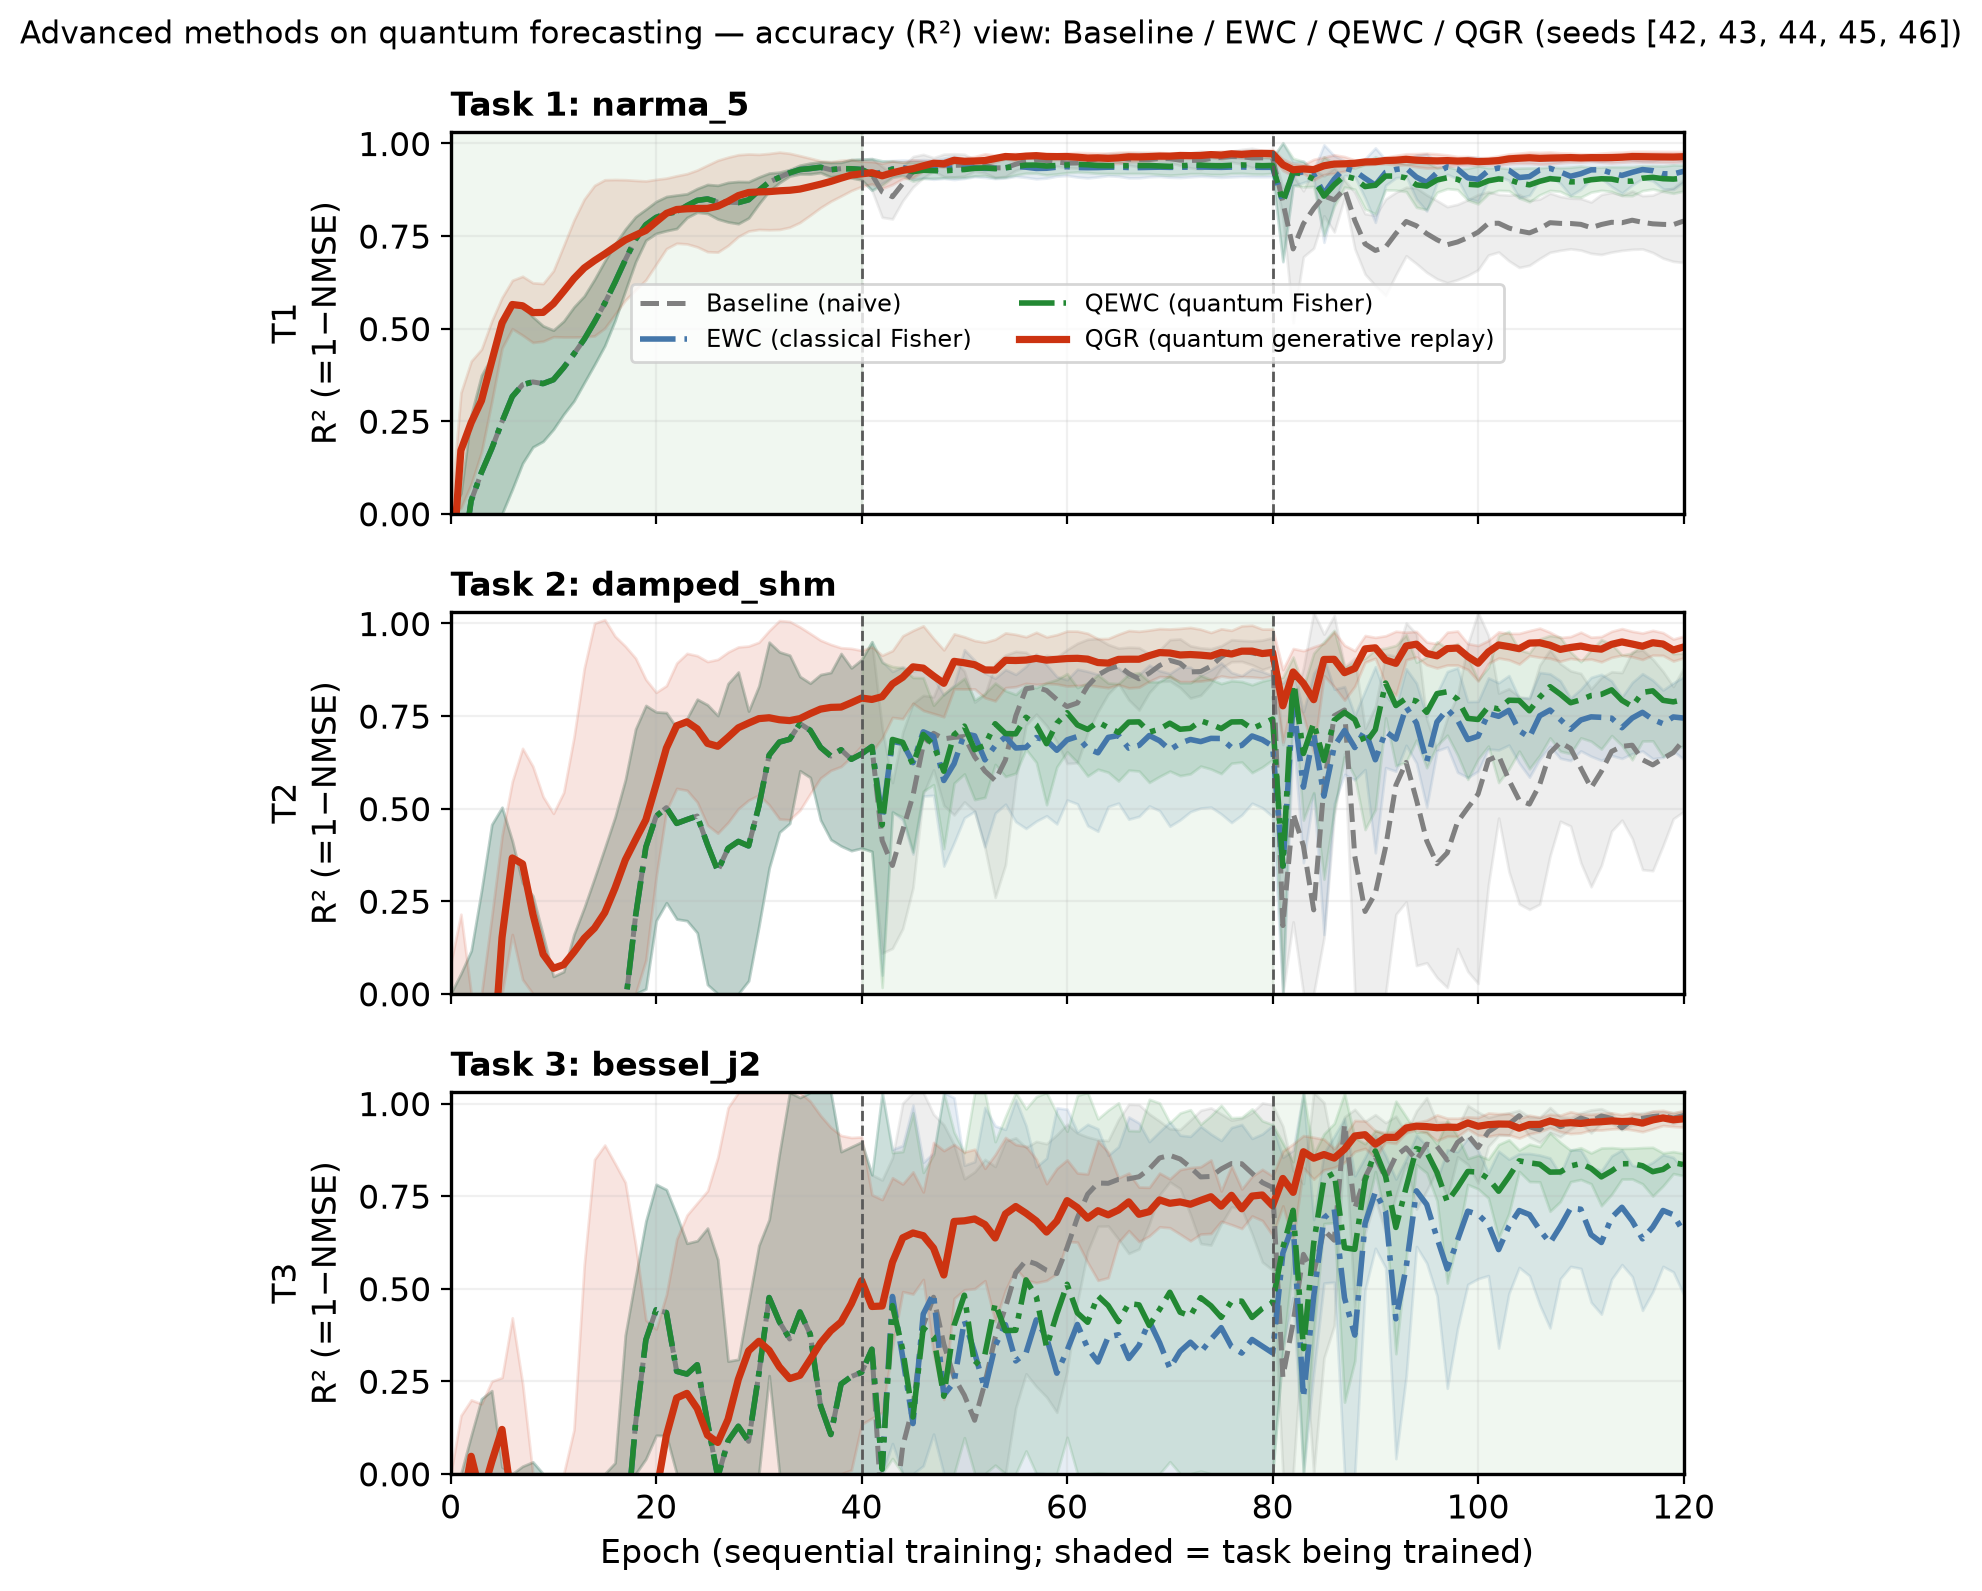
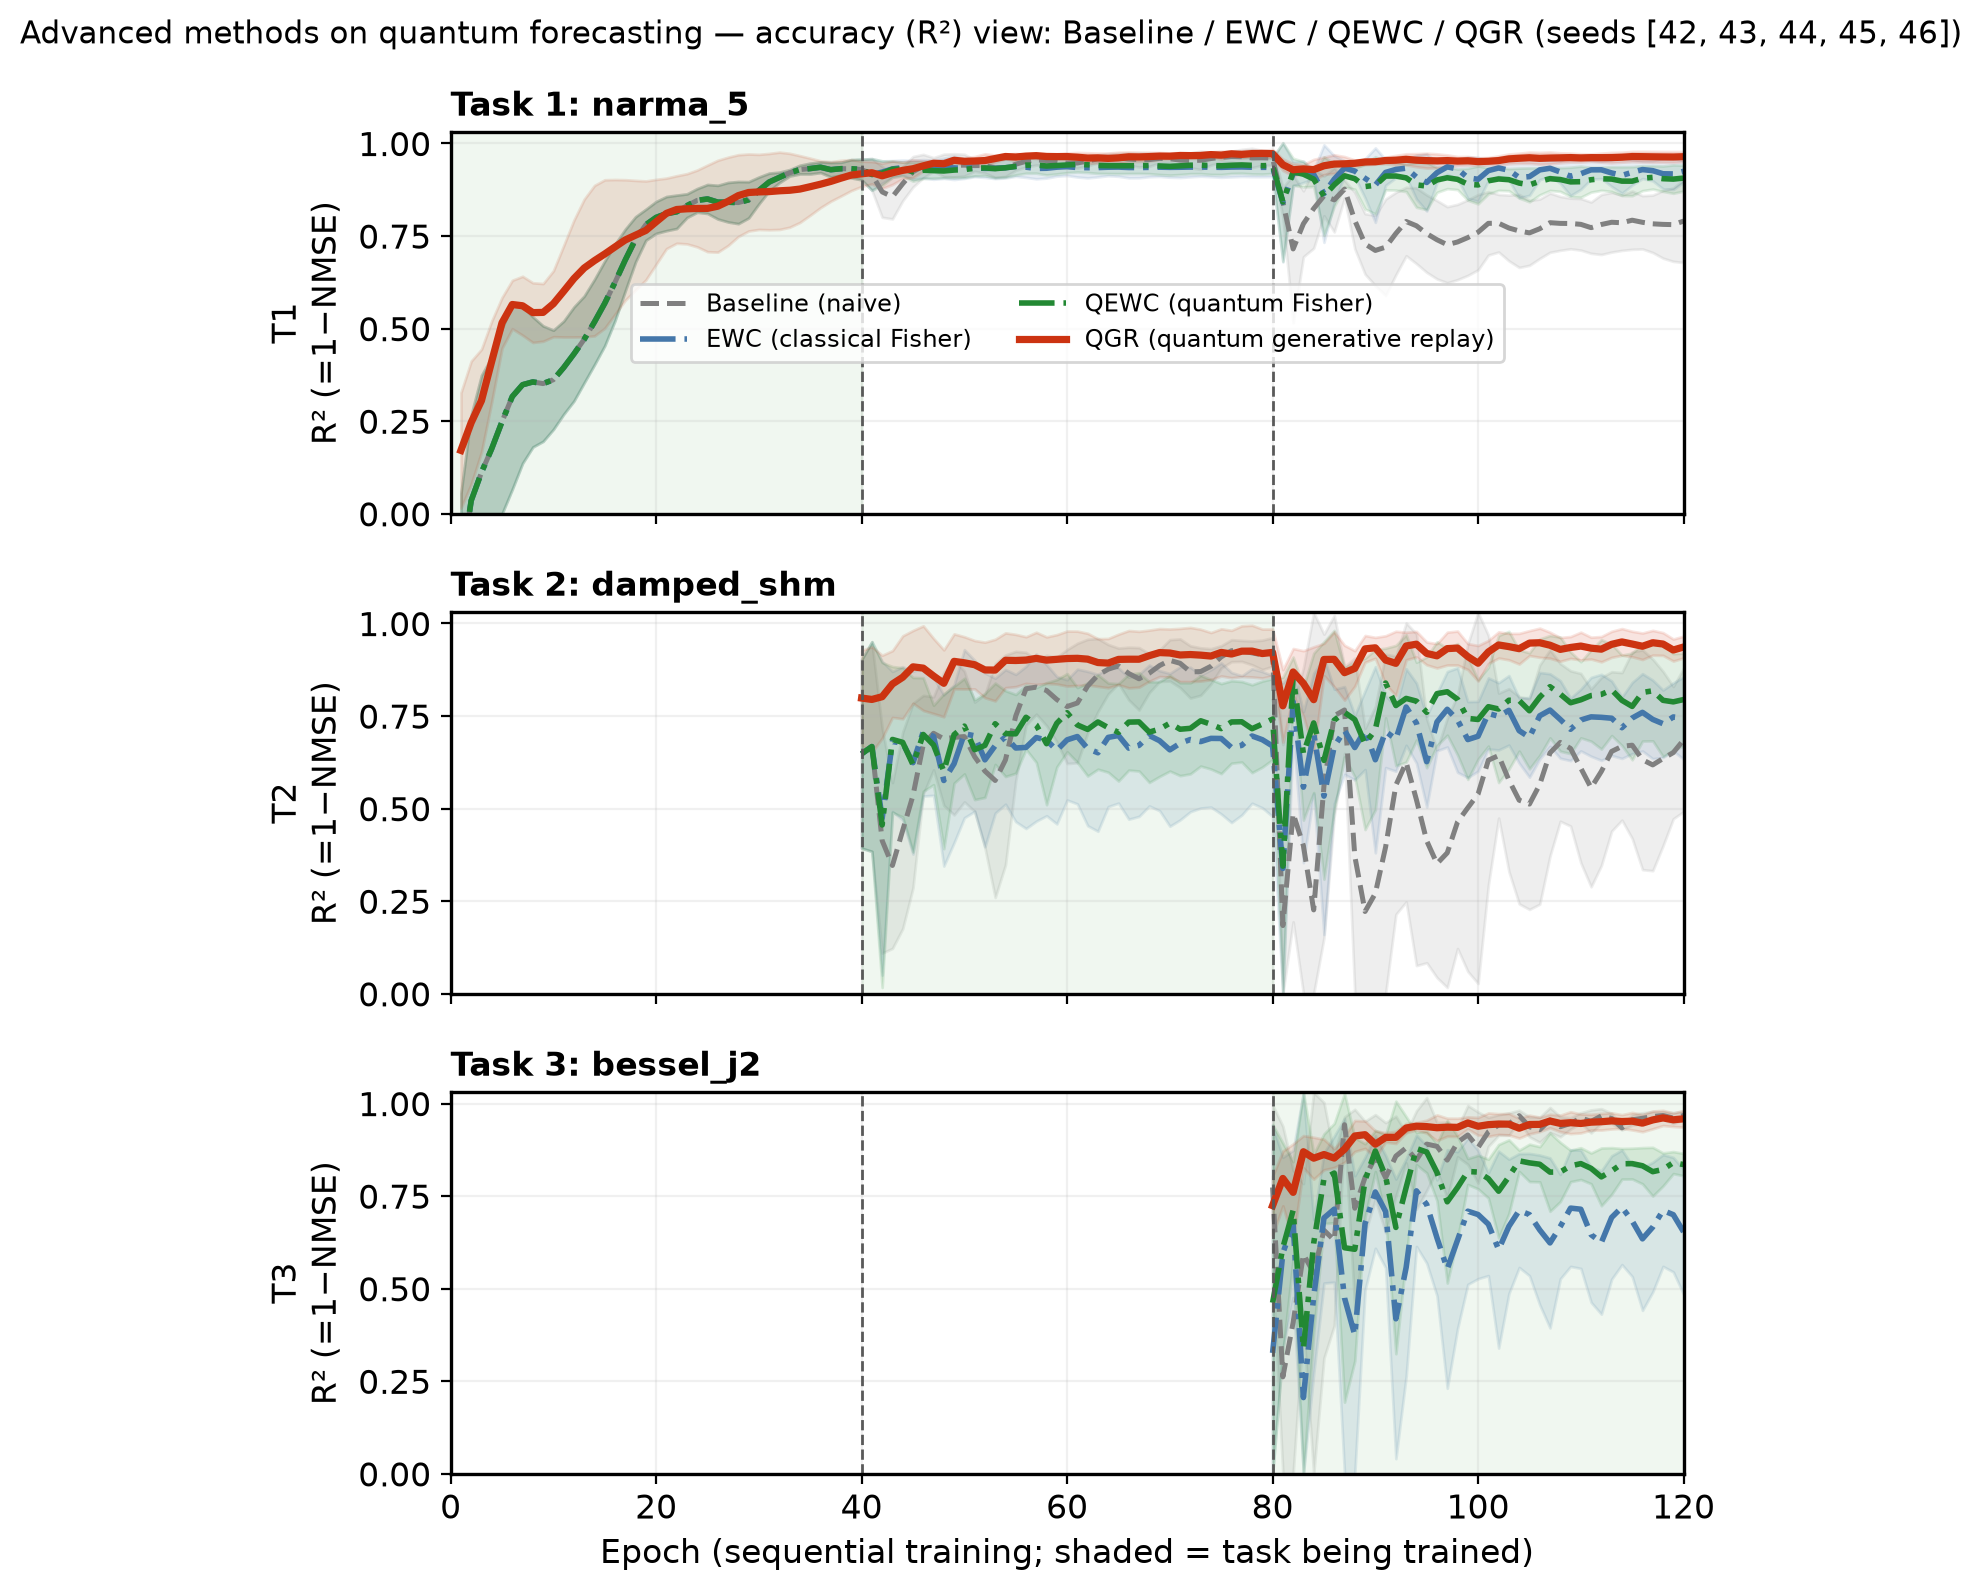
fig(e009): onset-mask the R^2 forgetting curves (each task drawn from its own training onset)
Keep the R^2 accuracy view + green task-being-trained shading, but draw each task's curve only from
its training onset (Task 2 from epoch 40, Task 3 from 80) instead of the full range. Regenerates both
e009_forgetting_curves.png (QGR aggressive) and e009_forgetting_curves_twoaxis.png (QGR two-axis).

diff --git a/scripts/e009_forgetting_curves.py b/scripts/e009_forgetting_curves.py
@@ -78,6 +78,7 @@ def plot(data, output):
     fig, axes = plt.subplots(len(tasks), 1, figsize=(7.6, 2.7 * len(tasks)), sharex=True)
 
     for i, (ax, task) in enumerate(zip(axes, tasks), start=1):
+        start = max((i - 1) * ept, 1)   # draw each task only from its own training onset
         for m, (label, color, ls, lw) in STYLE.items():
             row = data["rows"].get(m)
             if not row:
@@ -85,8 +86,9 @@ def plot(data, output):
             ep = np.array(row["epochs"])
             r2 = 1.0 - np.array(row["nmse"][task]["mean"])   # accuracy view: R^2 = 1 - NMSE
             sd = np.array(row["nmse"][task]["sd"])
-            ax.plot(ep, r2, ls, color=color, lw=lw, label=label)
-            ax.fill_between(ep, np.clip(r2 - sd, 0, 1.03), np.clip(r2 + sd, 0, 1.03),
+            k = ep >= start
+            ax.plot(ep[k], r2[k], ls, color=color, lw=lw, label=label)
+            ax.fill_between(ep[k], np.clip(r2[k] - sd[k], 0, 1.03), np.clip(r2[k] + sd[k], 0, 1.03),
                             color=color, alpha=0.13)
         for b in range(ept, total, ept):
             ax.axvline(b, color="0.35", ls="--", lw=1.0)
